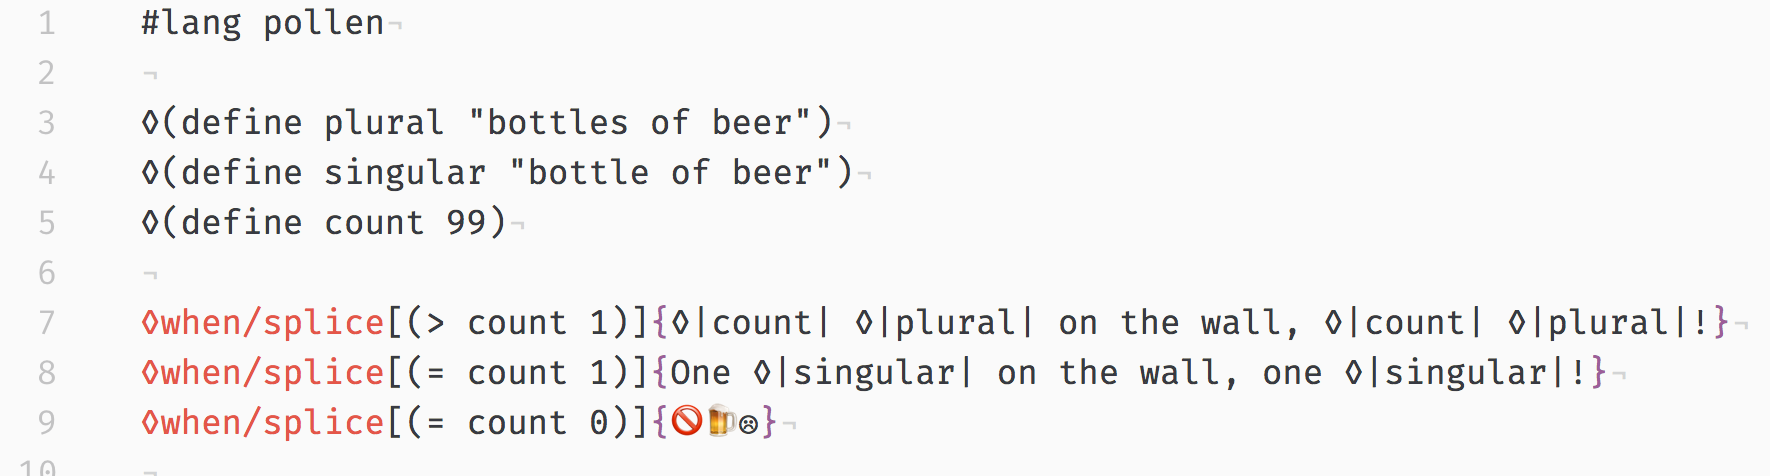
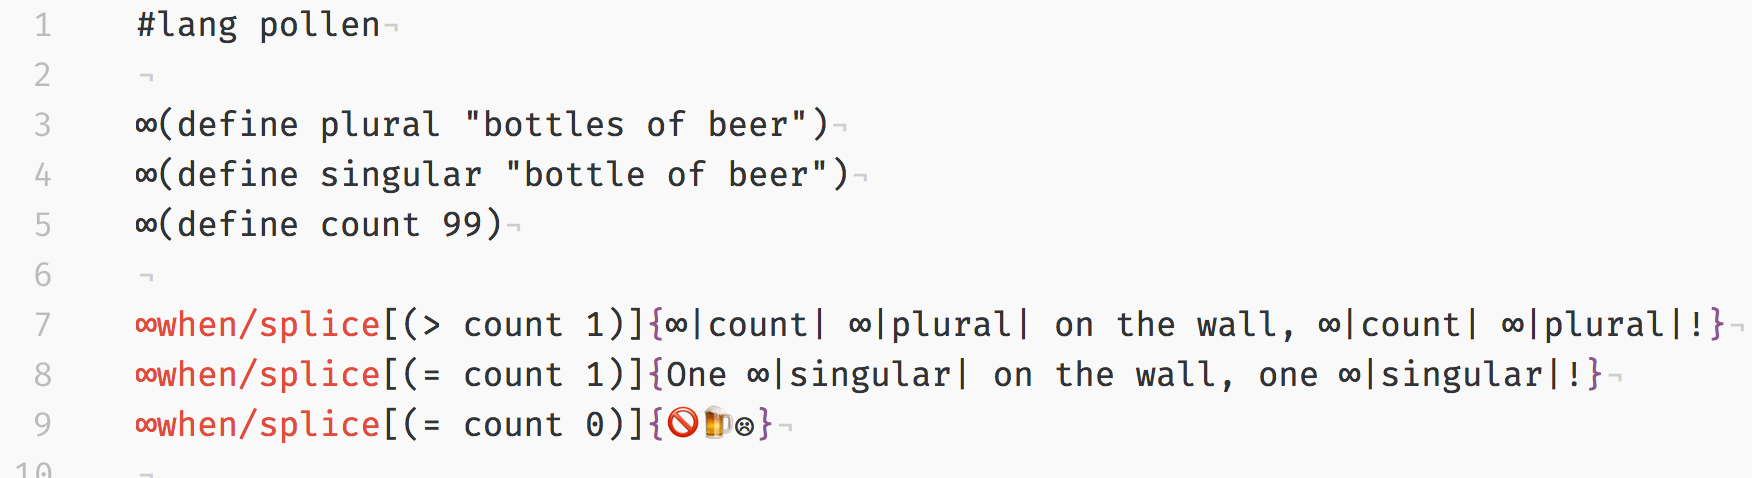
Changed Pollen command character from `◊` to the more iOS-friendly `§`

diff --git a/README.md b/README.md
@@ -1,6 +1,10 @@
-# Pollen language package
+# (Modified) Pollen language package
 
-This package adds syntax highlighting to [Pollen](https://docs.racket-lang.org/pollen/) files.
+This package adds syntax highlighting to [_Pollen_](https://docs.racket-lang.org/pollen/) files, with one **important difference compared with the [original package](https://github.com/clozach/language-pollen)**: this fork replaces the typical `◊` command character with `§`.
+
+Why? Because there's no way to type `◊` on an iPhone, but `§` can be had with a long-press on `&`.
+
+(If I had the time, I'd use the strategy from [atom-tasks](https://discuss.atom.io/t/automatically-update-to-dynamic-grammar/10181/4) so that the command character could be loaded from settings. But I don't, so 👅💦.)
 
 # Installation
 
@@ -12,8 +16,8 @@ This package adds syntax highlighting to [Pollen](https://docs.racket-lang.org/p
 
 <sup>[1](#footnote)</sup>`language-racket` is not an explicit dependency of this project. That said, Pollen source files can contain [_Racket_](https://racket-lang.org/) code, so you'll probably want to install both:
 
-_Pollen only_
+_Pollen only_ (w/`§` command character)
 ![pollen-only-highlighting](images/2018/01/pollen-only-highlighting.png)
 
-_Pollen with Racket_
+_Pollen with Racket_ (w/`§` command character)
 ![with-racket-highlighting](images/2018/01/with-racket-highlighting.png)
